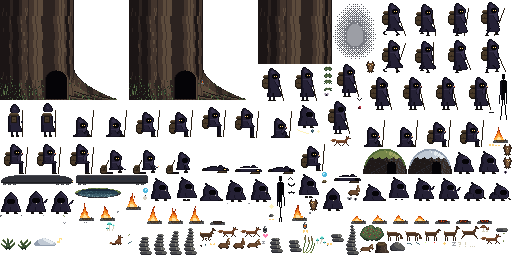
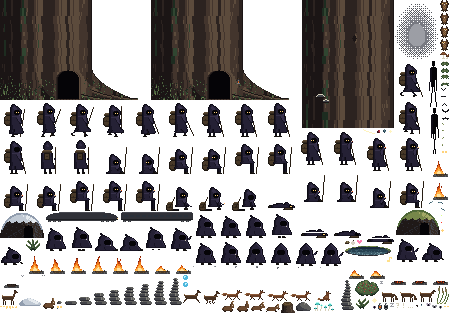
feat: the great tree, the creature's pictures, and its place in the README
The great tree wider and alive: moss climbing its shaded side, a knot, a
bracket fungus, its sizes shared with the scene and the page. The tour in
docs/creature (38 pictures: every biome through the day, its moments, its
nights, the weather, you), the bench (60 fps at 1080p and 4K), the end-to-end
check (20 of 20). The README tells how to meet it.

diff --git a/tools/art/sprites/hollow.ts b/tools/art/sprites/hollow.ts
@@ -3,6 +3,7 @@
 // cylinder lit from the open side, furrowed bark, roots spreading over the ground, moss on the roots, and an arched
 // opening whose inside is all darkness. `base` stands on the ground (its last row); `trunk` repeats upward off the
 // top of the screen. A lantern hangs on a peg by the door. And for the open lands a turf shelter with a low door.
+import { TREE } from '../../../src/creature/look.ts';
 import { unit } from '../../../src/noise.ts';
 import type { Sheet } from '../legend.ts';
 
@@ -10,11 +11,11 @@ const BARK = ['(', ')', '[', ']'];
 const MOSS = ['V', 'M', 'Y', '7'];
 const SEED = 0x7ee;
 
-/** Trunk width (px) and how far its lit face reaches round it. */
-const TRUNK = 74;
-const BASE_W = 128;
-const BASE_H = 100;
-const TILE_H = 64;
+/** Its sizes, shared with the scene and the page (src/creature/look.ts). */
+const TRUNK = TREE.trunk;
+const BASE_W = TREE.w;
+const BASE_H = TREE.h;
+const TILE_H = TREE.tile;
 
 /** A furrow's darkness at a column: long vertical streaks that wander a little with height (in step with the tile). */
 function furrow(x: number, y: number): number {
@@ -43,10 +44,49 @@ function grid(w: number, h: number): string[][] {
   return Array.from({ length: h }, () => new Array<string>(w).fill('.'));
 }
 
-/** A segment of the trunk, seamless top to bottom. */
+/** Moss climbing the shaded side in streaks, in step with the tile. */
+function moss(g: string[][], w: number, y0: number, y1: number, phase: number): void {
+  for (let y = y0; y < y1; y++)
+    for (let x = 1; x < w * 0.42; x++) {
+      if (!BARK.includes(g[y][x])) continue;
+      const streak = unit(Math.floor(x / 2), SEED ^ 0x3051);
+      const band = unit(Math.floor(x / 2) * 31 + (Math.floor((y + phase) / 8) % (TILE_H / 8)), SEED ^ 0x3052);
+      const t = x / (w * 0.42);
+      if (streak > 0.55 && band > 0.35 + t * 0.5) g[y][x] = band > 0.85 ? 'M' : 'V';
+    }
+}
+
+/** A knot in the bark: a dark hollow ring, its rim catching the light on the open side. */
+function knot(g: string[][], cx: number, cy: number, rx: number, ry: number): void {
+  for (let y = -ry - 1; y <= ry + 1; y++)
+    for (let x = -rx - 1; x <= rx + 1; x++) {
+      const d = (x * x) / (rx * rx) + (y * y) / (ry * ry);
+      const gy = cy + y;
+      const gx = cx + x;
+      if (gy < 0 || gy >= g.length || gx < 0 || gx >= g[0].length || !BARK.includes(g[gy][gx])) continue;
+      if (d < 0.45) g[gy][gx] = '(';
+      else if (d < 1) g[gy][gx] = x > 0 ? ']' : ')';
+      else if (d < 1.5 && x > 0) g[gy][gx] = '[';
+    }
+}
+
+/** A bracket fungus on the bark: a pale shelf with a shadow under it. */
+function bracket(g: string[][], x0: number, y0: number, w: number): void {
+  for (let i = 0; i < w; i++) {
+    const h = Math.round(Math.sin(((i + 0.5) / w) * Math.PI) * 2);
+    for (let j = 0; j <= h; j++) g[y0 - j][x0 + i] = j === h ? 'U' : 'n';
+    g[y0 + 1][x0 + i] = '(';
+  }
+}
+
+/** A segment of the trunk, seamless top to bottom: furrowed bark, moss on the shaded side, a knot, a fungus. */
 function trunkTile(): string[] {
   const g = grid(TRUNK, TILE_H);
   for (let y = 0; y < TILE_H; y++) for (let x = 0; x < TRUNK; x++) g[y][x] = bark(x, y, 0, TRUNK);
+  moss(g, TRUNK, 0, TILE_H, 0);
+  knot(g, 52, 38, 3, 5);
+  bracket(g, 14, 96, 9);
+  bracket(g, 21, 101, 6);
   return g.map((r) => r.join(''));
 }
 
@@ -57,15 +97,15 @@ function base(lantern: boolean): string[] {
     // The trunk flares toward the ground: at the top it is TRUNK wide; over the last 30 rows its right side spreads
     // out into the roots.
     const flare = Math.max(0, (y - (BASE_H - 34)) / 34);
-    const w = Math.round(TRUNK + flare * flare * 46);
+    const w = Math.round(TRUNK + flare * flare * (BASE_W - TRUNK - 12));
     // Its top row follows on from the bottom row of the trunk's segment above it.
     for (let x = 0; x < w; x++) g[y][x] = bark(x, y % TILE_H, 0, w);
   }
   // Roots: humps running out to the right over the ground, each with its own lit top.
   const roots = [
-    { x: 74, len: 40, h: 7 },
-    { x: 62, len: 30, h: 5 },
-    { x: 92, len: 24, h: 4 },
+    { x: TRUNK, len: 42, h: 8 },
+    { x: TRUNK - 14, len: 32, h: 5 },
+    { x: TRUNK + 20, len: 26, h: 4 },
   ];
   for (const r of roots) {
     for (let i = 0; i < r.len; i++) {
@@ -80,8 +120,10 @@ function base(lantern: boolean): string[] {
       g[BASE_H - 1 - top][x] = '(';
     }
   }
+  // Moss up the shaded side, as on the trunk above.
+  moss(g, TRUNK, 0, BASE_H - 30, 0);
   // The hollow: an arch in the trunk's face near its open side, all darkness inside, a pale worn lip round it.
-  const cx = 56;
+  const cx = TREE.door.x;
   const hw = 10;
   const top = BASE_H - 30;
   for (let y = top; y < BASE_H; y++) {
@@ -110,8 +152,7 @@ function base(lantern: boolean): string[] {
       if (unit(x * 131 + y * 7, SEED ^ 0x3055) < chance) g[y][x] = MOSS[Math.min(3, Math.floor(unit(x + y * 53, SEED ^ 0x3056) * 3) + (above ? 1 : 0))];
     }
   // A peg by the door, and the lantern hanging from it (lit at night: the fire roles glow).
-  const px = cx + hw + 6;
-  const py = top + 8;
+  const [px, py] = [TREE.peg[0], TREE.peg[1] - 1];
   g[py][px] = 'k';
   g[py][px + 1] = 'K';
   if (lantern) {

diff --git a/src/creature/scene.ts b/src/creature/scene.ts
@@ -5,6 +5,7 @@
 import { BIOMES, DEPTH_PX, FOODS, PLAN_W } from './config.ts';
 import type { BiomeName, CritterKind, FoodKind, PropKind } from './config.ts';
 import { rng } from '../noise.ts';
+import { TREE } from './look.ts';
 import type { Sky } from './sky.ts';
 
 /** A prop's sprite: its size in native pixels, and for a home where its door is (its centre from the left, width). */
@@ -12,7 +13,7 @@ export type Footprint = { readonly w: number; readonly h: number; readonly door?
 
 /** The sizes of what stands in the scene (tools/art/sprites/things.ts and hollow.ts). */
 export const FOOTPRINTS: Readonly<Record<PropKind | 'tree' | 'shelter', Footprint>> = {
-  tree: { w: 128, h: 100, door: { x: 56, w: 21, h: 30 } },
+  tree: { w: TREE.w, h: TREE.h, door: TREE.door },
   shelter: { w: 44, h: 26, door: { x: 28, w: 9, h: 13 } },
   home: { w: 44, h: 26 },
   bush: { w: 24, h: 16 },
@@ -27,9 +28,9 @@ export const FOOTPRINTS: Readonly<Record<PropKind | 'tree' | 'shelter', Footprin
 };
 
 /** How far past the view's edge the great tree stands: its door this far in from the edge. */
-export const TREE_IN = 52;
+export const TREE_IN = 60;
 /** The share of the width the great tree, its door and its roots take: nothing else stands there. */
-export const TREE_CLEAR = (TREE_IN + 72) / PLAN_W;
+export const TREE_CLEAR = (TREE_IN + TREE.w - TREE.door.x - 6) / PLAN_W;
 
 export type Prop = {
   readonly kind: PropKind;

diff --git a/web/creature/hollow.ts b/web/creature/hollow.ts
@@ -6,7 +6,7 @@
 import { BIOME_IDS } from '../../src/biomes.ts';
 import { BIOMES } from '../../src/creature/config.ts';
 import type { Game } from '../../src/creature/game.ts';
-import { CREATURE, EYES_FRONT, EYES_SIDE, HAND, HEAD, LANTERN, MOOD_EYES } from '../../src/creature/look.ts';
+import { CREATURE, EYES_FRONT, EYES_SIDE, HAND, HEAD, LANTERN, MOOD_EYES, TREE } from '../../src/creature/look.ts';
 import type { EyeShape, PoseTag } from '../../src/creature/look.ts';
 import type { Prop } from '../../src/creature/scene.ts';
 import { forestFocus } from '../../src/creature/scene.ts';
@@ -152,7 +152,7 @@ export class Hollow {
         const tx = flip ? left + base[2] - tile[2] : left;
         for (let y = foot - base[3] - tile[3]; y > -tile[3] - 60; y -= tile[3]) put(ground, tx, y, tile, flip, 1, undefined, false);
         // By day its lantern hangs dark on its peg; at night it carries it, or, at home, it is lit by the door.
-        const peg = [72, 79];
+        const peg = TREE.peg;
         const px = flip ? left + base[2] - 1 - peg[0] - 2 : left + peg[0];
         if (!dark) put(ground, px - 1, foot - base[3] + peg[1], sheets.carry.dark[0], flip);
         if (lit) addLight(px + 1, foot - base[3] + peg[1] + 4, 34, 0.75 * (0.85 + 0.15 * flicker(time, 3)));

diff --git a/src/creature/look.ts b/src/creature/look.ts
@@ -65,6 +65,13 @@ export const HAND: Readonly<Record<PoseTag, readonly [number, number]>> = {
 };
 export const LANTERN: readonly [number, number] = [19, 22];
 
+/**
+ * The great tree (tools/art/sprites/hollow.ts): its foot `w` × `h` with the trunk `trunk` wide at its top, the
+ * hollow's door (its centre from the left, its width and height), the peg its lantern hangs on, and the height of the
+ * trunk's repeating segment. Drawn for the left edge.
+ */
+export const TREE = { w: 150, h: 100, trunk: 92, door: { x: 68, w: 21, h: 30 }, peg: [86, 79] as const, tile: 128 } as const;
+
 /** Moods in the order of the palette's `mood` family (src/palette.ts). */
 export const MOOD_EYES = ['content', 'joyful', 'calm', 'curious', 'sleepy', 'hungry', 'bored', 'lonely', 'grumpy', 'scared', 'love', 'sad'] as const;
 export type EyeColour = (typeof MOOD_EYES)[number];

diff --git a/tools/creature-tour.ts b/tools/creature-tour.ts
@@ -79,7 +79,7 @@ add('you', 'talk', { hour: '15', weather: 'clear' }, 4, async (p) => {
   await p.keyboard.press('t');
   await p.keyboard.type('do you remember the sea?');
 }, 3);
-add('you', 'journal', { hour: '15', weather: 'clear' }, 1, async (p) => p.keyboard.press('j'), 1);
+add('you', 'journal', { hour: '15', weather: 'clear' }, 1.5, async (p) => p.keyboard.press('j'), 1);
 add('you', 'asks', { hour: '15', weather: 'clear', act: 'ask' }, 9);
 
 mkdirSync(out, { recursive: true });

diff --git a/README.md b/README.md
@@ -65,6 +65,34 @@ The road is saved to `~/.local/share/wander/journey.json` (or under `$XDG_DATA_H
 
 `npm run site` builds it into `dist/` (the TypeScript with its types stripped, the page marked as the site), and the [Live page workflow](.github/workflows/pages.yml) publishes it on every push to `main`. `npm start -- --live` opens the same road locally.
 
+## The creature
+
+`npm run creature` opens the other one: a small hooded creature that lives in a hollow at the foot of a great tree, in a still corner of the same world, drawn in the same art. Its face is darkness; only its eyes glow, in the colour of its mood. Unlike the wanderer, it notices you. It forages berries, digs for small things, stacks stones into a cairn, chases butterflies and the toy you throw, hums, watches the stars, hides from the rain or dances in it, goes inside its tree to sleep at night with its lantern lit by the door, and now and then comes up to the glass: to say hello, to bring you something it found, to ask you a question, or to tap when you have been away too long. Its behaviour is never scripted: a small brain with needs (food, rest, fun, love), a personality fixed at birth and a bond with you picks what it does next. Its clock is yours: night falls when it is night where you are, under today's moon.
+
+![The creature by its great tree, at night, its lantern lit](docs/creature/nights/stars.jpg)
+
+| Key or mouse | Does |
+|---|---|
+| F | Drop food near it; it decides whether it wants it |
+| P | Throw the glowing toy; it may chase it |
+| E or Space, or a click on it | Pet it, take a gift it holds out, or wake it (it may grumble) |
+| T or Enter | Talk to it: type, Enter sends, Esc cancels |
+| Y / N | Answer when it asks you something |
+| J | Its journal: diary, finds, gifts, what it knows about you |
+| H | The bar with its needs, or not |
+| M, + / − | Sound on or off, louder or softer |
+| A click on the ground | It goes to have a look |
+
+Its eyes follow the pointer. When you come back to the window after a while, it notices.
+
+The first time, a wisp drifts in, becomes the creature, and asks what to call you. After that it is saved (`~/.local/share/wander/creature.json`, the same file the terminal creature used, so one from those days moves in with its memories), and its life goes on while the window is closed: open it the next day and it will have slept, foraged, maybe found something, and it knows how long you were gone. Left alone for days it gets lonely and goes wandering, and comes back when you do. It never dies.
+
+With `ANTHROPIC_API_KEY` set, its words come from Claude (`mind: claude` in the bar): when it greets you, visits, offers a gift, thinks aloud, and whenever you talk to it; Claude can also choose what it does next (ask it to dance) and remembers what you tell it. Without a key, or with `--offline`, its own small voice speaks (`mind: local`). Nothing on screen waits for the API.
+
+Options (`npm run creature -- --biome tundra`): `--biome forest|meadow|tundra|swamp` (an existing creature moves), `--name NAME` and `--seed WORD` (a new one), `--new` (start over; the old one is kept as `creature.json.bak`), `--offline`, `--mute`, `--speed X` and `--hour H` (a look, not saved), `--no-browser`, `--port N`, `--save PATH`.
+
+More: [biomes](docs/creature/biomes-sheet.jpg) · [moments](docs/creature/moments-sheet.jpg) · [nights](docs/creature/nights-sheet.jpg) · [weather](docs/creature/weather-sheet.jpg) · [you](docs/creature/you-sheet.jpg)
+
 ## What there is
 
 - **The land.** Ten parallax layers at fixed depths, from distant mountains to the grass passing close to the eye, each lighter, bluer and softer the further off it stands. Everything is a pure function of the seed and the distance along the road: no two stretches are alike, and none is ever stored. Biomes blend over minutes of walking: colours, ground, plants, weather, sound.
@@ -96,6 +124,7 @@ On an RTX 4070, in headless Chromium on the GPU; the raw numbers are in `docs/so
 
 - **Fast soak** (`npm run soak -- --speed 16 --hours 48`): 48 in-world hours, no errors; JS heap 24.4 → 24.7 MB, GPU textures (48, 52 MB), buffers and framebuffers constant, frame time p50 16.7 / p99 16.8 ms throughout.
 - **Normal soak** (`npm run soak -- --minutes 122 --hidden 20`): two real hours at speed 1, the first 20 minutes hidden (he walked on 370 m and his steps kept sounding with 9 frames drawn), no errors; frame time p50 16.7 / p99 16.8 ms every minute once shown; GPU resources constant; the heap 21 → 27 MB in the first hour while bounded caches fill, then 26–28 MB.
+- **The creature** (`docs/creature/bench.json`, its in-page bench, 20 s each): 60 fps at 1920×1080 and 3840×2160, frame interval p50 16.7 / p99 16.8 ms, CPU 0.4 ms and GPU 1.2–3.6 ms a frame, on a clear day and on a rainy night with its lantern lit. End to end (`npm run creature:check`): 20 of 20 (`docs/creature/check.txt`).
 - **End to end** (`npm run check`, through the real server): closing and reopening, three hours away, offline, Claude, and a slow, failing or refused API: `docs/soak/check.txt`.
 
 ## Tools
@@ -114,6 +143,8 @@ On an RTX 4070, in headless Chromium on the GPU; the raw numbers are in `docs/so
 | `npm run live -- --hours 1000` | Lives the live road's hours one after another and checks that each ends where the next begins. |
 | `npm run site` | Builds the published page into `dist/`. |
 | `npm run site:check` | Serves `dist/` as GitHub Pages would and checks it: the same wanderer as `src/live.ts`, the hour turning without a jump, no requests for anything that is not there. |
+| `npm run creature:tour` | Pictures of the creature: every biome through the day, its moments, its nights, the weather, you (`docs/creature/`). |
+| `npm run creature:check` | The creature end to end through the real server: its first meeting, saving and reopening, days away, a terminal-era save moving in, Claude and when it fails (`docs/creature/check.txt`). |
 | `npm run art:draw`, `npm run art` | Builds the hand-drawn sprites into Aseprite files, then exports the atlas. |
 
 ## How it is made

diff --git a/docs/superpowers/plans/2026-10-10-creature-hd.md b/docs/superpowers/plans/2026-10-10-creature-hd.md
@@ -33,3 +33,14 @@ The owner asked (2026-10-10) to rework `feat/creature`, the terminal diorama of 
 4. The server: the creature's store, mind and routes; `npm run creature`.
 5. The page: the hollow stage, input, the bubble and the bars, the journal, talking, sound.
 6. Tools and proof: a tour of the hollow, an end-to-end check (save, reopen, time away, Claude through a stand-in API), the bench; README; a PR.
+
+## Progress (2026-10-10)
+
+All six steps done on `feat/creature-hd`:
+
+- The engine: the stage's sky and air split from his drawing (the wanderer draws exactly as before: his frames match pixel for pixel within run-to-run noise); a role swap and a no-rim flag per sprite; the playfield can go without his road and keep a deeper floor; the cloud and water fixes of the live page underneath.
+- The art: the creature (9 poses, eyes apart in 6 shapes and 12 mood colours, 6 cloaks), the great tree (generated: a 92 px trunk with moss, a knot, bracket fungus, roots, the hollow, a lantern on a peg) and the turf shelters, props, the cairn, food, the toy, the lantern, signs, butterflies, moths, a frog, a hare, an owl, the visitor and the glow it walks through.
+- The logic ported with its 74 tests (166 in all). One fix the pictures found: a creature cut short while out of sight (arriving, wandering) never came back; the terminal one had the same flaw.
+- The server: `npm run creature`, the terminal creature's own save (Ori moves in from the shore), Claude through `POST /api/creature/say`.
+- The page: the hollow with its camera looking a little lower than his, its words, the bar, the hints, the journal, the talk box, the mouse at the glass, sound.
+- Proof: `npm run creature:tour` (38 pictures in `docs/creature/`), `npm run creature:check` (20 of 20), the bench (60 fps at 1080p and 4K).
